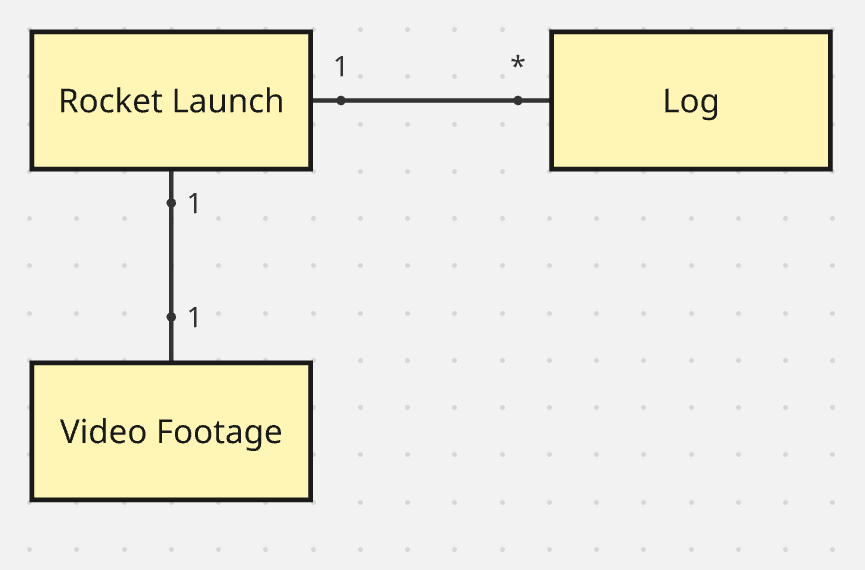
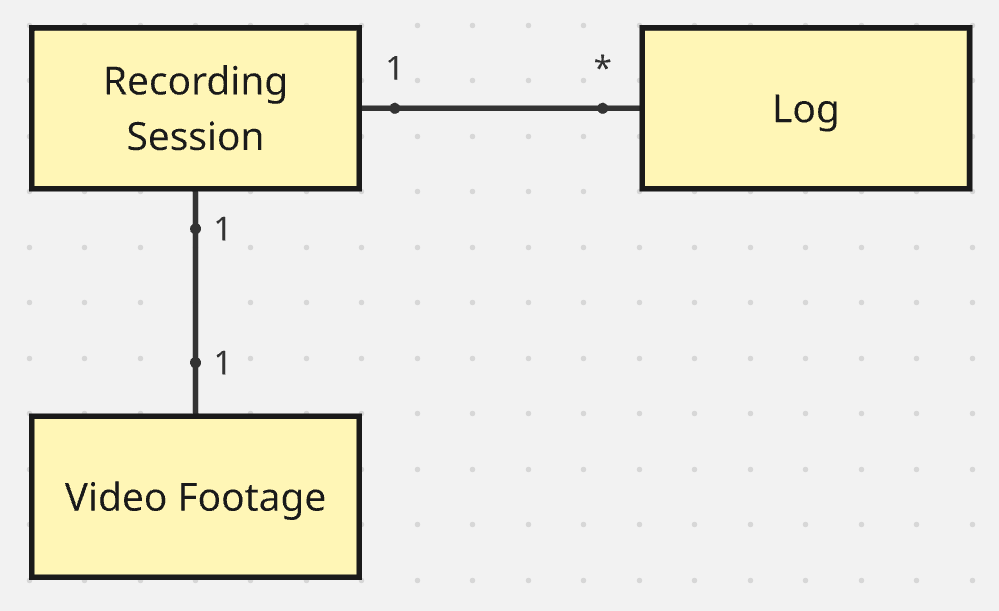
data dictionary

diff --git a/docs/SRS/SRS.tex b/docs/SRS/SRS.tex
@@ -137,7 +137,7 @@ level of familiarity with live streaming software and hardware.
 
 The flight performance analyst is a member of the rocketry team that
 reconstructs flight profiles from sensor data and camera footage to understand
-how the rocket behaves during ascent and recovery. The flight performance
+how the rocket behaves during ascent and descent. The flight performance
 analyst is assumed to have a high level of familiarity with rocket flight
 dynamics and software used for analysis.
 
@@ -185,9 +185,9 @@ make her a trusted member of the launch operations crew.
 Brandon is in his final year of mechanical engineering at a Canadian university
 and serves as a flight performance analyst for his rocketry team. His specialty
 is reconstructing flight profiles from sensor data and camera footage to
-understand how the rocket behaves during ascent and recovery. He joined the
-team for the engineering challenge but stayed because he loves the mix of
-theory, experimentation, and teamwork.
+understand how the rocket behaves during ascent and descent. He joined the team
+for the engineering challenge but stayed because he loves the mix of theory,
+experimentation, and teamwork.
 
 Originally from Calgary, Brandon now lives in a small off-campus apartment
 filled with model rockets, whiteboards, and a curious cat named Fourier. He's
@@ -342,7 +342,7 @@ access.
   \item \textbf{Gimbal}: A gimbal is a motorized device that rotates based on the commands sent to it.
   \item \textbf{Rocket}: Refers to a model rocket.
   \item \textbf{Ascent}: The stage in a model rocket flight where the rocket is ascending.
-  \item \textbf{Recovery}: The stage in a model rocket flight where the rocket has reached its apogee and is descending.
+  \item \textbf{Descent}: The stage in a model rocket flight where the rocket has reached its apogee and is descending.
 \end{enumerate}
 
 \section{Relevant Facts And Assumptions}
@@ -569,7 +569,28 @@ the video footage and logs associated with the launch.
 \FloatBarrier
 
 \subsection{Data Dictionary}
-\lips
+
+\begin{table}[H]
+  \centering
+  \setlength\extrarowheight{5mm}
+  \begin{tabularx}{\textwidth}{lXp{1in}}
+    \toprule \textbf{Name} & \textbf{Content}               &
+    \textbf{Type}                                             \\
+    \midrule
+    Recording Session      & date + time                    &
+    Class
+    \\
+    Video Footage          & Recorded video from the camera &
+    Class
+    \\
+    Log                    & timestamp + gimbal angle       &
+    Class
+    \\
+    \bottomrule
+  \end{tabularx}
+  \caption{Data Dictionary}
+  \label{tab:data-dictionary}
+\end{table}
 
 \section{The Scope of the Product}
 \subsection{Product Boundary}
